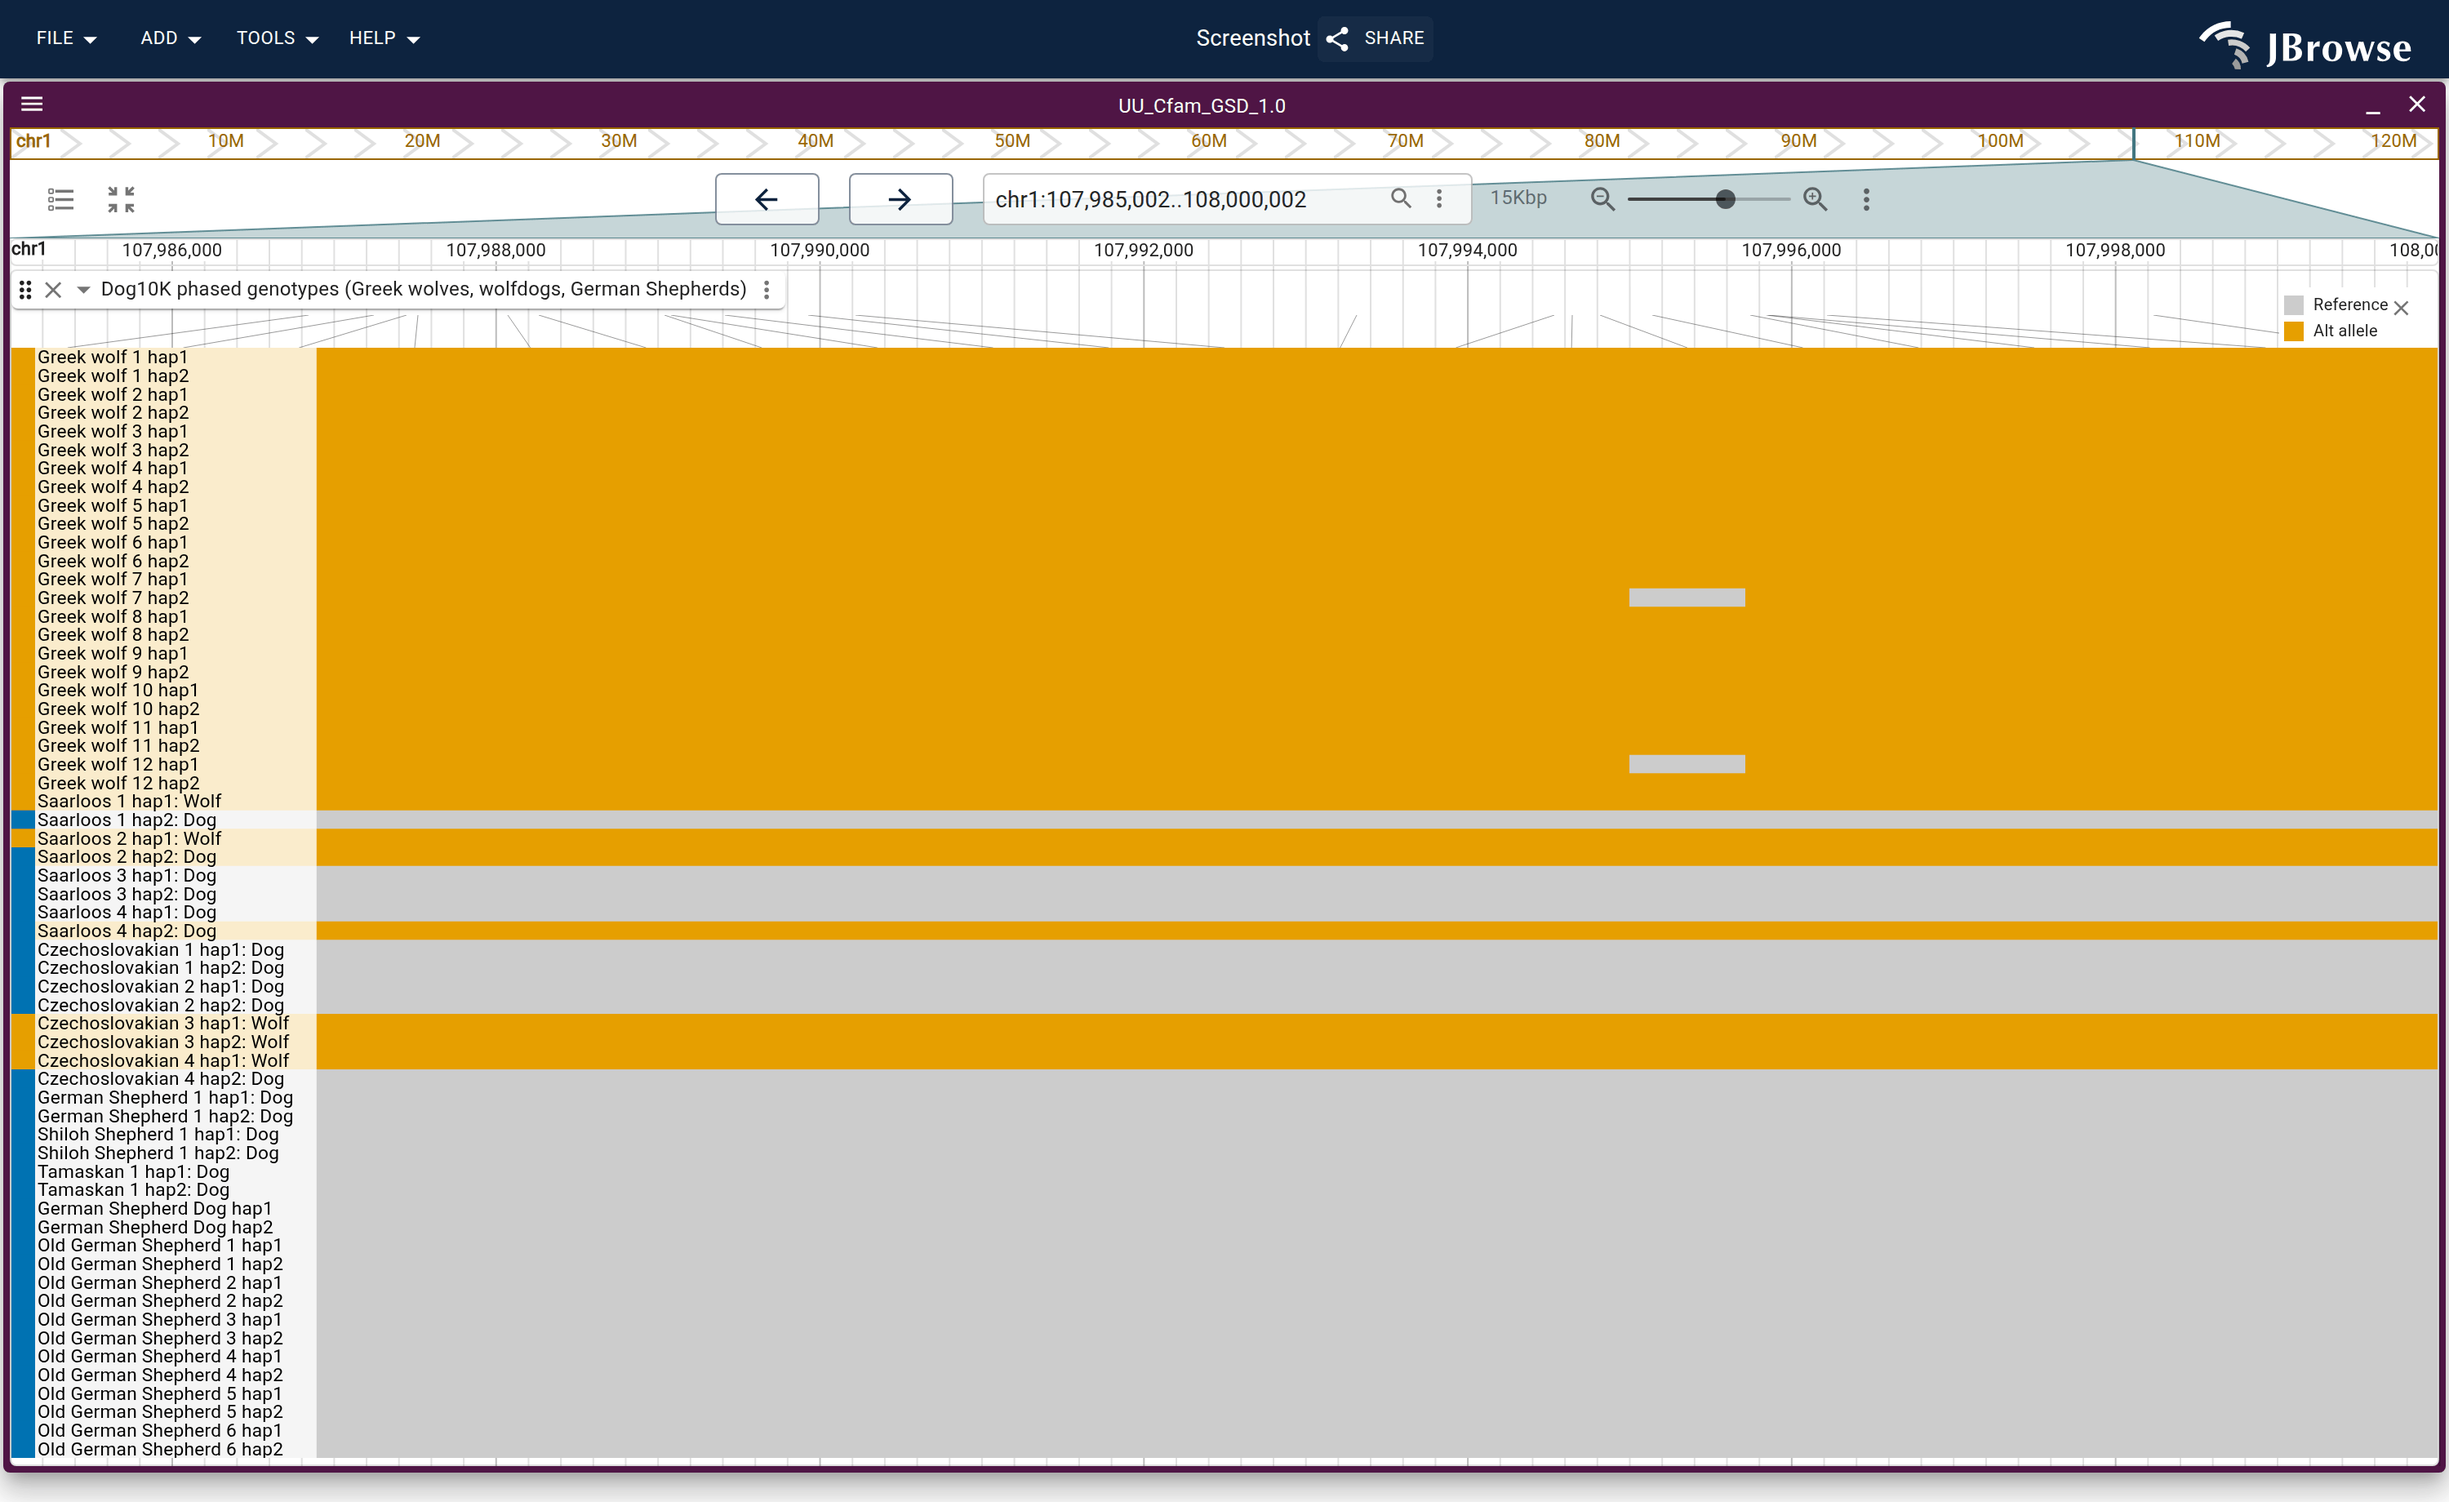
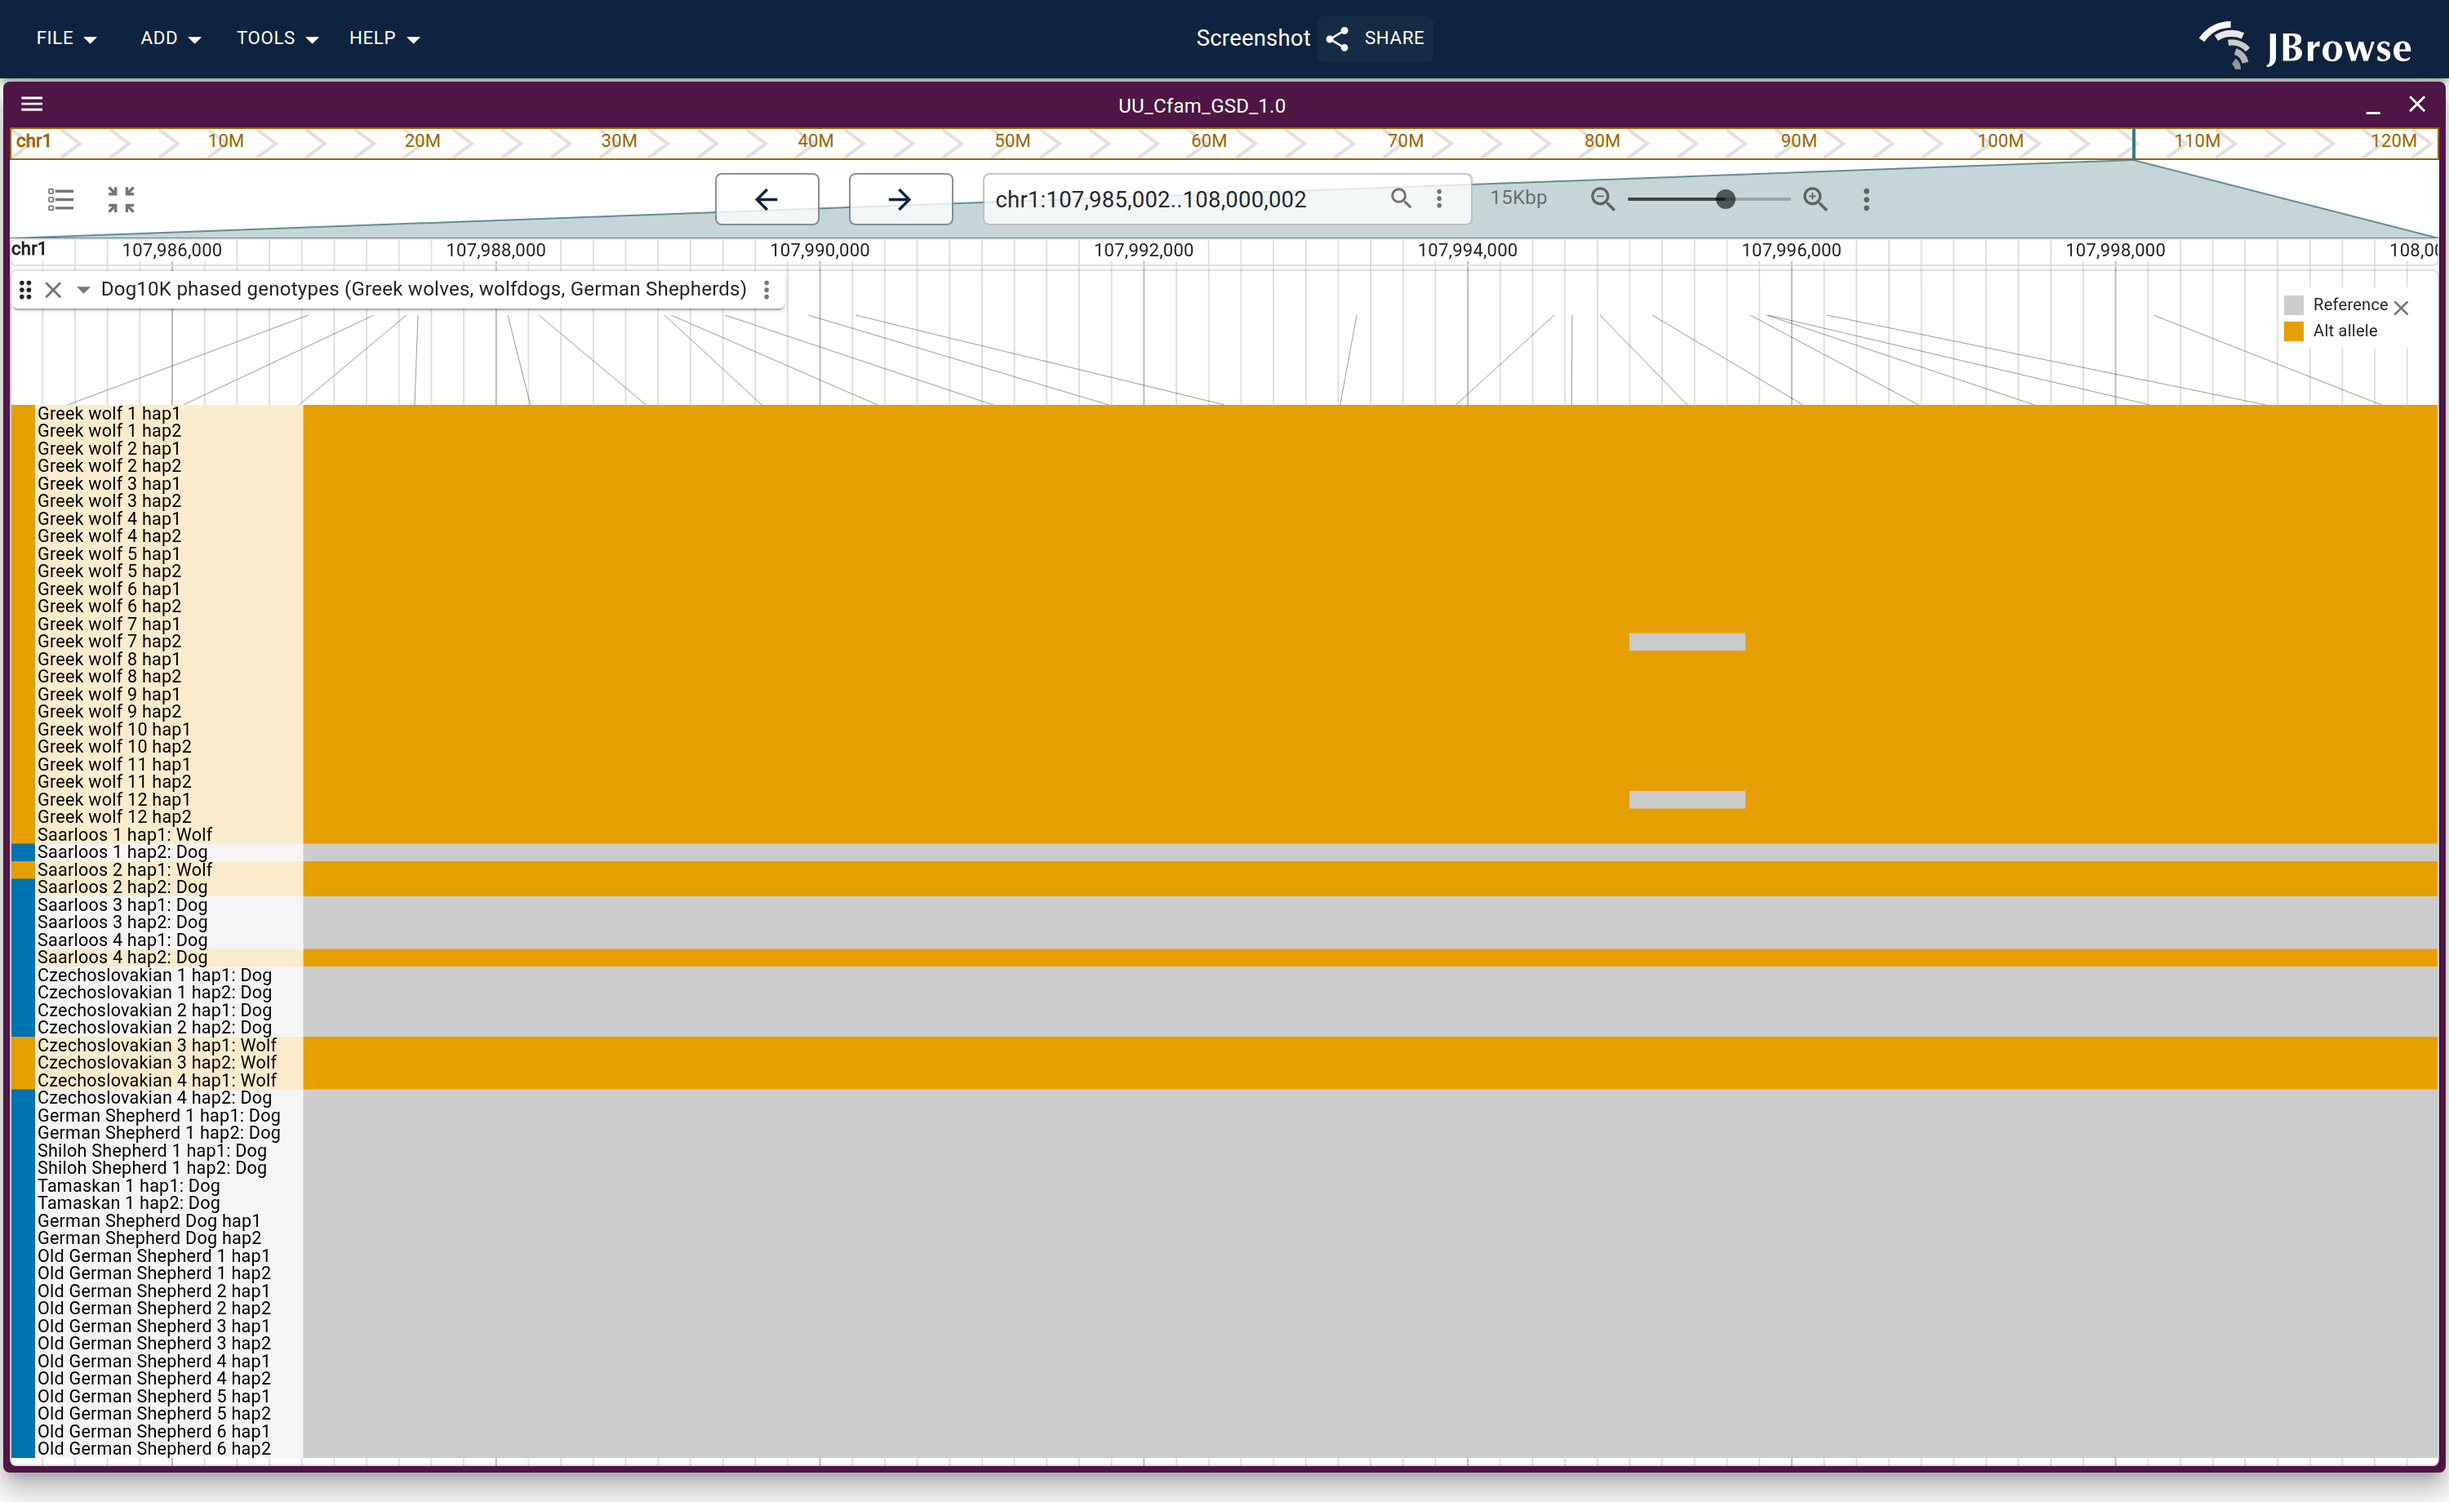
docs: filter the C4 bubbles lane, and say how many markers the wolfdog panel holds
hprc_c4_subgraph: the lane also drew a 136 bp four-segment bubble 6 kb from the
right edge, with no room for its label, so it printed a sentence cut off
mid-word — and no caption referred to it. Filtered to the bubble the figure is
about.

wolfdog-block-genotypes: a run of alt cells is one solid band, so nothing said
how many markers it was made of. The connector band ties each column back to
its position, the same fix the DENR and IGF1 matrices took.

Claude-Session: https://claude.ai/code/session_011xQEbTekTLMTSWopEJ2txk

Changed region(s): [[0.0, 0.2168, 1.0, 0.9913], [0.651, 0.3717, 0.713, 0.4337]]

diff --git a/website/scripts/specs/graph.ts b/website/scripts/specs/graph.ts
@@ -1254,8 +1254,17 @@ export const graphSpecs: ScreenshotSpec[] = [
               type: 'LinearBasicDisplay',
               // pinned, not grown: a bubble's label is two lines and the lane
               // packs few enough rows to fit them, so growing it only adds
-              // whitespace under the last one
-              height: 90,
+              // whitespace under the last one. One row now that the lane is
+              // filtered, so 90 was 30px of that whitespace.
+              height: 60,
+              // The bubble this figure is about, and not the 136 bp four-segment
+              // one that also falls in the window. That one sits 6 kb from the
+              // right edge, which is not enough room for its two label lines, so
+              // it printed a sentence cut off mid-word — and the caption never
+              // referred to it. `segmentCount` is a field on the bubble feature
+              // (MinigraphBubbleAdapter), so this filters on the same number the
+              // label leads with.
+              jexlFiltersSetting: ["jexl:get(feature,'segmentCount') >= 5"],
             },
             hprcSegmentsLane(C4_REGION),
           ],

diff --git a/website/scripts/specs/dog10k.ts b/website/scripts/specs/dog10k.ts
@@ -356,6 +356,12 @@ export const dog10kSpecs: ScreenshotSpec[] = [
           type: 'LinearMultiSampleVariantMatrixDisplay',
           renderingMode: 'phased',
           height: 700,
+          // A run of alt cells is one solid orange band, so at the 20px schema
+          // default nothing in the frame said how many markers it was made of
+          // and the lane read as two painted blocks. The connector band ties each
+          // column back to its position in the 11 kb block, which is what makes
+          // it visibly a 21-marker panel.
+          lineZoneHeight: 55,
           layout: DOG_VCF_LAYOUT,
           // Paint the alt cells in the painting's own wolf orange rather than
           // the default genotype blue. Two reasons: carrying these alleles *is*

diff --git a/website/scripts/graphAnchor.ts b/website/scripts/graphAnchor.ts
@@ -56,7 +56,9 @@ export async function graphNodeGeometry(
       // either that or the bare GFA segment id
       const positions = view?.nodePositions
       const pts =
-        positions?.[nodeId] ?? positions?.[`${nodeId}+`] ?? positions?.[`${nodeId}-`]
+        positions?.[nodeId] ??
+        positions?.[`${nodeId}+`] ??
+        positions?.[`${nodeId}-`]
       if (!view || !pts?.length) {
         return undefined
       }

diff --git a/website/scripts/screenshot-review-plan.md b/website/scripts/screenshot-review-plan.md
@@ -92,6 +92,23 @@ before editing, don't revert what you didn't touch.
 
 ## Useful facts learned (durable, not tied to any one session)
 
+- **Point at a graph node by NAME, never by pixel.**
+  `anchor: { view, graphNode: 's2037' }` works on a click, a rightclick, a hover
+  and on any annotation; it resolves through the view's own `nodePositions` and
+  transform (`scripts/graphAnchor.ts`), and throws if the node is not there, so a
+  moved node fails the spec instead of acting on empty canvas. A box anchor takes
+  the node's drawn bounds, everything else takes a point ON the polyline (a bent
+  node's bounding-box centre can be in the hole the arc encloses).
+  `node scripts/probe-graph-nodes.ts <spec> [--view=N] [--hover=<id>]` prints a
+  cut's node ids with lengths, ranks and resolved coordinates, so a spec picks
+  its target from the graph rather than from a finished PNG. Every hand-measured
+  coordinate in this set had a comment listing the occasions it had gone stale.
+- **`{ mode: 'compose', direction: 'horizontal' }`** places parts side by side
+  (`+append`) instead of stacking. Use it when the two parts are the same view
+  drawn two ways — stacked, the second reads as the next step rather than as the
+  alternative. Size each part to its own content: `+append` pads the shorter one,
+  so a shared height only adds dead space to the part that did not need it.
+
 - **jbrowse-img (CliSpec) gene tracks: use `--hub <genome> --track <trackId>`,
   not a raw `--gffgz <url>`.** `--hub hg38` supplies the assembly (built-in
   refName aliases, no `--fasta`/`--aliases` needed) plus a bonus ideogram, and
@@ -191,7 +208,7 @@ cd website && node scripts/generate-screenshots.ts --force --filter pangenome/
 `betabuild` uploads to the public `s3://jbrowse.org/demos/graphgenomeviewer/`,
 moves the unversioned entry point the published figures' live links resolve, and
 invalidates CloudFront — **ask before running it.** Last published
-`68ed649ed8e6` (2026-07-30).
+`5e1c0d4f42b5` (2026-07-30).
 
 Regenerating the whole `pangenome/` set with `--force` after a publish sweeps in
 churn the publish did not cause: the E. coli figures that mount no graph view at
@@ -268,15 +285,6 @@ channel), not a spec edit.
 
 ## Open plugin work
 
-- **The graph's hover tooltip sits on top of the last row's label.**
-  `tooltipStyle` in `GraphCanvas.tsx` pins it `bottom: 8, left: 8` of the graph
-  pane, and the row labels are drawn down the left edge, so on a graph with
-  enough rows to reach the bottom the two overlap — `pangenome/rgfa_hover_sync`
-  captures it reading "Sakai" and the node name as one word. Bottom-right would
-  clear it (the layout runs left-to-right from the labels, so the right edge is
-  empty at the bottom on every figure in this set). A spec cannot work around
-  it: the tooltip is an inline-styled div with no testid, and `hideTooltip` only
-  reaches core's `BaseTooltip`. Needs the publish loop above.
 - **A launch's tracks are the assembly's annotation, and only for the single
   view.** `launchTracks` scans the session for FeatureTracks on the assembly
   being opened, which is what makes `pangenome/rgfa_strain_launch` possible (the

diff --git a/website/docs/tutorials/allvsall_synteny.md b/website/docs/tutorials/allvsall_synteny.md
@@ -405,9 +405,9 @@ file. A pangenome graph does say it: the island is a segment, and each strain's
 walk either goes through that segment or takes a detour around it.
 
 The E. coli tutorials also build a minigraph graph of the same five strains, and
-the [graph genome view](/docs/user_guides/graph_genome_view) opens a window of it
-beside the alignment. Drawn together, the ribbons and the graph are two readings
-of the same event:
+the [graph genome view](/docs/user_guides/graph_genome_view) opens a window of
+it beside the alignment. Drawn together, the ribbons and the graph are two
+readings of the same event:
 
 <Figure caption="Above, the phenylacetate operon window with NCTC86 over K12 and Sakai under it, both bands from the all-vs-all PAF. The NCTC86 band runs unbroken across the banded island; the Sakai band only reaches the frame past its right edge. Below, the same window as a graph: the island is the one long node on the backbone, and the detour the other strains take is the short arm beside it." src="/img/pangenome/rgfa_paa_bubble.png" />
 
